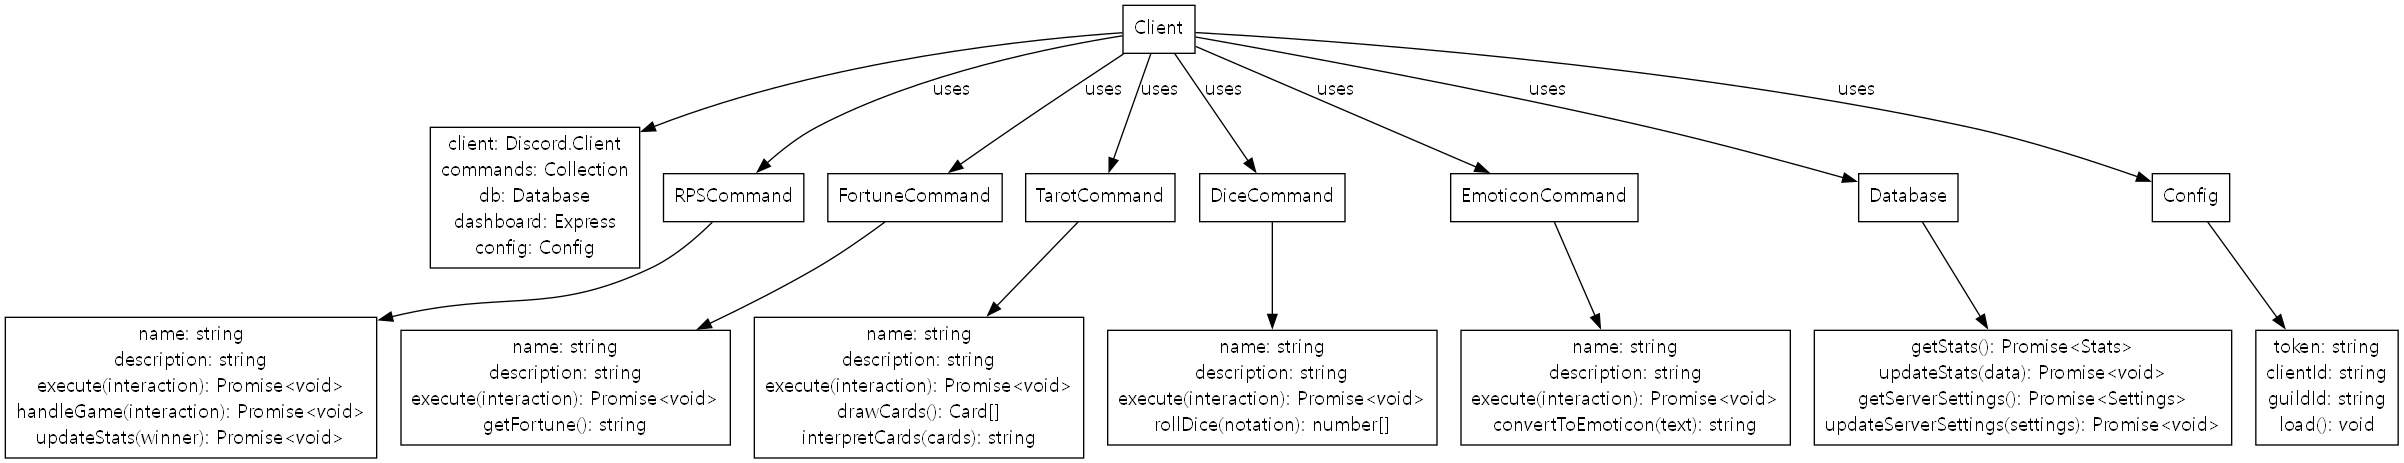
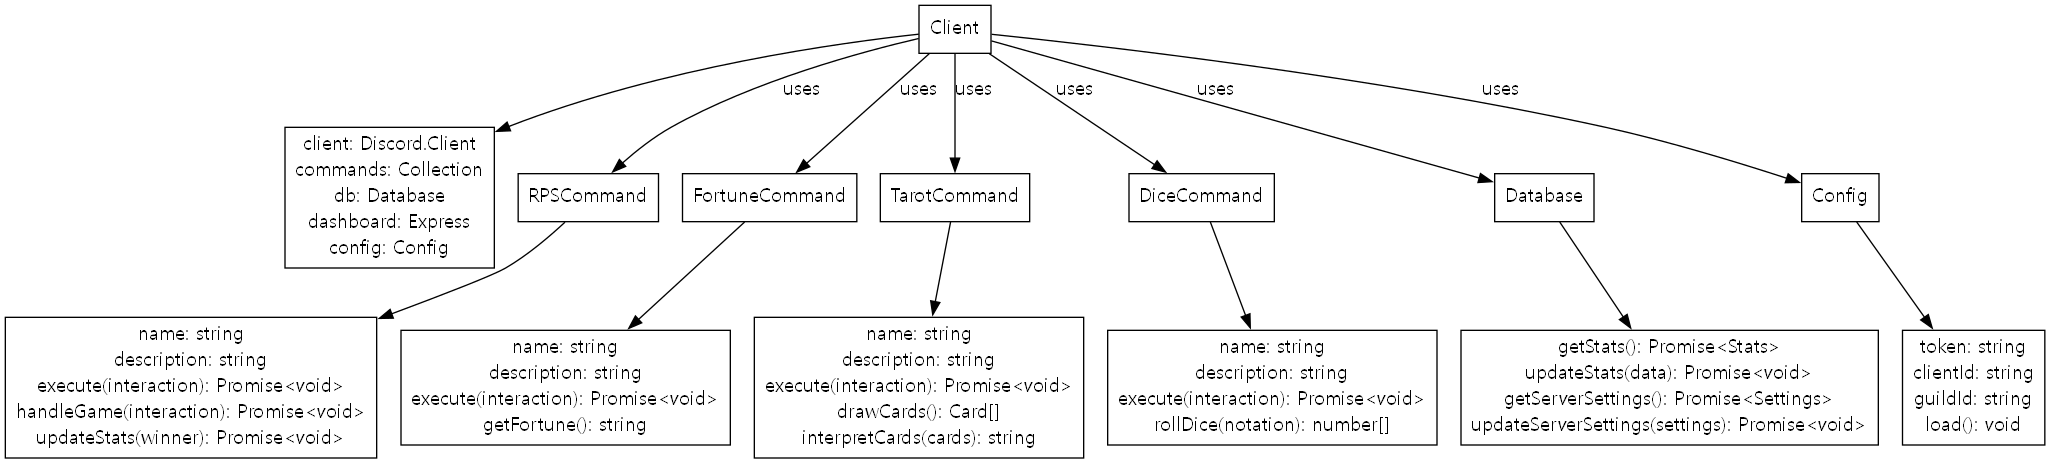
Remove unimplemented features from documentation and diagrams

diff --git a/visualize_uml.py b/visualize_uml.py
@@ -22,8 +22,7 @@ def create_bot_class_diagram():
         'RPSCommand': 'name: string\ndescription: string\nexecute(interaction): Promise<void>\nhandleGame(interaction): Promise<void>\nupdateStats(winner): Promise<void>',
         'FortuneCommand': 'name: string\ndescription: string\nexecute(interaction): Promise<void>\ngetFortune(): string',
         'TarotCommand': 'name: string\ndescription: string\nexecute(interaction): Promise<void>\ndrawCards(): Card[]\ninterpretCards(cards): string',
-        'DiceCommand': 'name: string\ndescription: string\nexecute(interaction): Promise<void>\nrollDice(notation): number[]',
-        'EmoticonCommand': 'name: string\ndescription: string\nexecute(interaction): Promise<void>\nconvertToEmoticon(text): string'
+        'DiceCommand': 'name: string\ndescription: string\nexecute(interaction): Promise<void>\nrollDice(notation): number[]'
     }
     
     # 명령어 클래스 추가

diff --git a/README.md b/README.md
@@ -18,11 +18,9 @@
   - 실시간 통계
 
 - **기타 명령어**
-  - `/인사` - 봇이 랜덤한 인사말로 응답합니다.
   - `/운세` - 오늘의 운세를 알려줍니다.
   - `/타로` - 과거, 현재, 미래를 나타내는 타로 카드 3장을 뽑아 해석해줍니다.
   - `/주사위` - 다양한 형식의 주사위를 굴립니다.
-  - `/이모티콘` - 일반 텍스트를 귀여운 이모티콘으로 변환해줍니다.
 
 ## 기술 스택
 - **Backend**
@@ -113,7 +111,6 @@ discord_bot_with_ai/
   - `FortuneCommand`: 운세 보기 기능
   - `TarotCommand`: 타로 카드 해석
   - `DiceCommand`: 주사위 굴리기
-  - `EmoticonCommand`: 텍스트를 이모티콘으로 변환
 
 - **유틸리티 클래스들**:
   - `Database`: 데이터베이스 작업 처리
